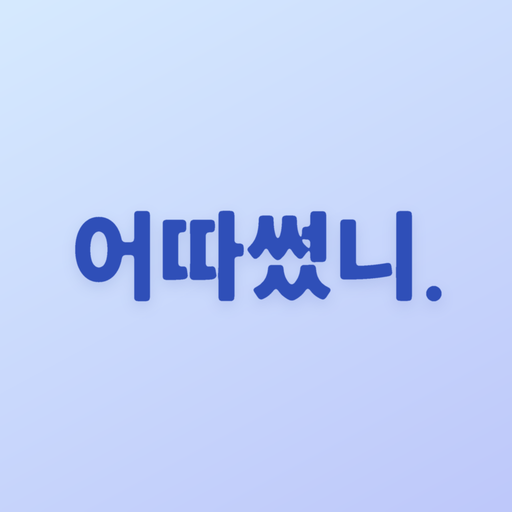
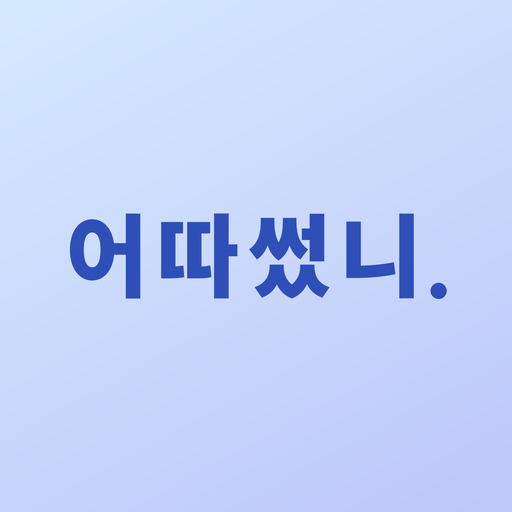
아이콘 글자를 또렷하게, 글자 사이 간격 추가
Claude-Session: https://claude.ai/code/session_011Z4eDyh1oUPzLSeBn4g8tn

Changed region(s): [[0.125, 0.4062, 0.875, 0.5938]]

diff --git a/index.html b/index.html
@@ -6,8 +6,8 @@
 <meta name="apple-mobile-web-app-capable" content="yes">
 <meta name="apple-mobile-web-app-title" content="어따썼니">
 <meta name="apple-mobile-web-app-status-bar-style" content="default">
-<link rel="apple-touch-icon" href="apple-touch-icon.png?v=5">
-<link rel="icon" type="image/png" href="icon-512.png?v=5">
+<link rel="apple-touch-icon" href="apple-touch-icon.png?v=6">
+<link rel="icon" type="image/png" href="icon-512.png?v=6">
 <title>어따썼니</title>
 <link rel="preconnect" href="https://fonts.googleapis.com">
 <link href="https://fonts.googleapis.com/css2?family=Archivo:wdth,wght@100..125,400..800&family=Noto+Sans+KR:wght@400;600;800&display=swap" rel="stylesheet">
